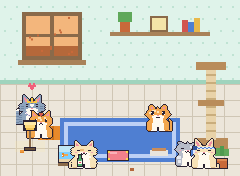
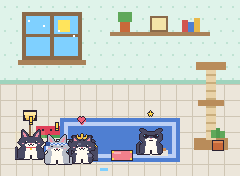
docs: README 사랑방 예시 이미지를 여름 배경 + 한정 손님(★) 장면으로 교체

diff --git a/README.md b/README.md
@@ -142,7 +142,7 @@
 
 <p align="center">
   <img src="docs/room.png" alt="사랑방" width="480"><br>
-  <sub>인테리어(민트 벽지, 타일 바닥, 파란 러그, 가구)를 바꾸고 왕관과 진주 목걸이를 건 호스트</sub>
+  <sub>민트 벽지·타일 바닥·파란 러그로 꾸민 방. 배경을 여름으로 바꾸자 ★가 뜬 한정 손님(선글라스 낀 고양이)이 놀러 왔어요</sub>
 </p>
 
 - 네코아츠메처럼 방 전체를 한 화면에서 내려다봐요.
